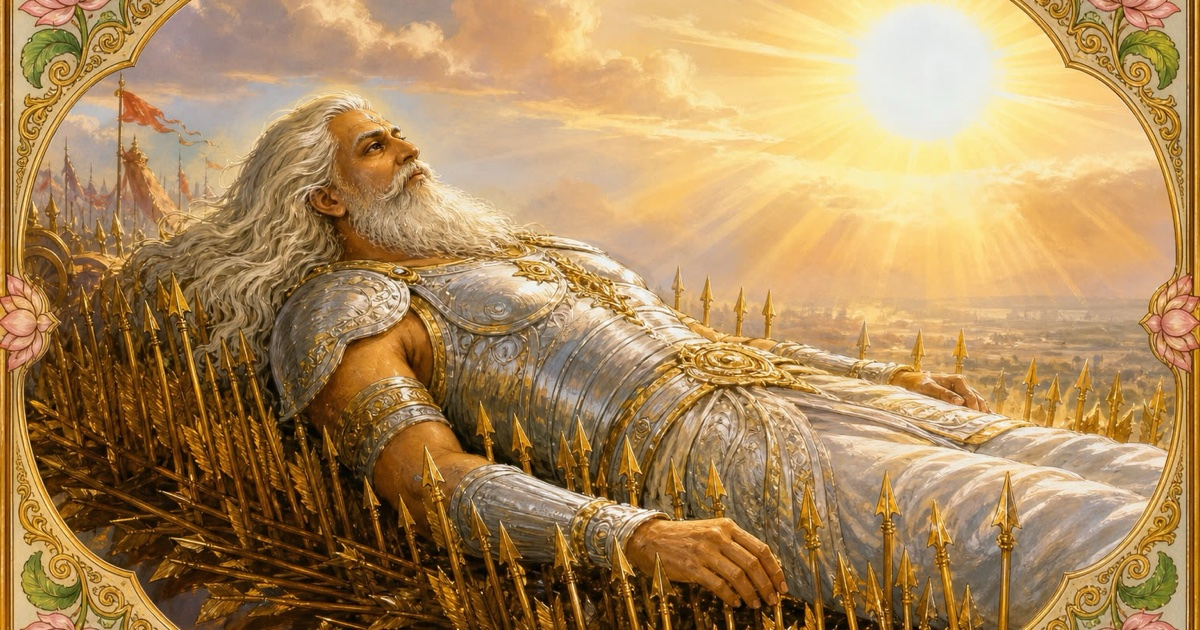
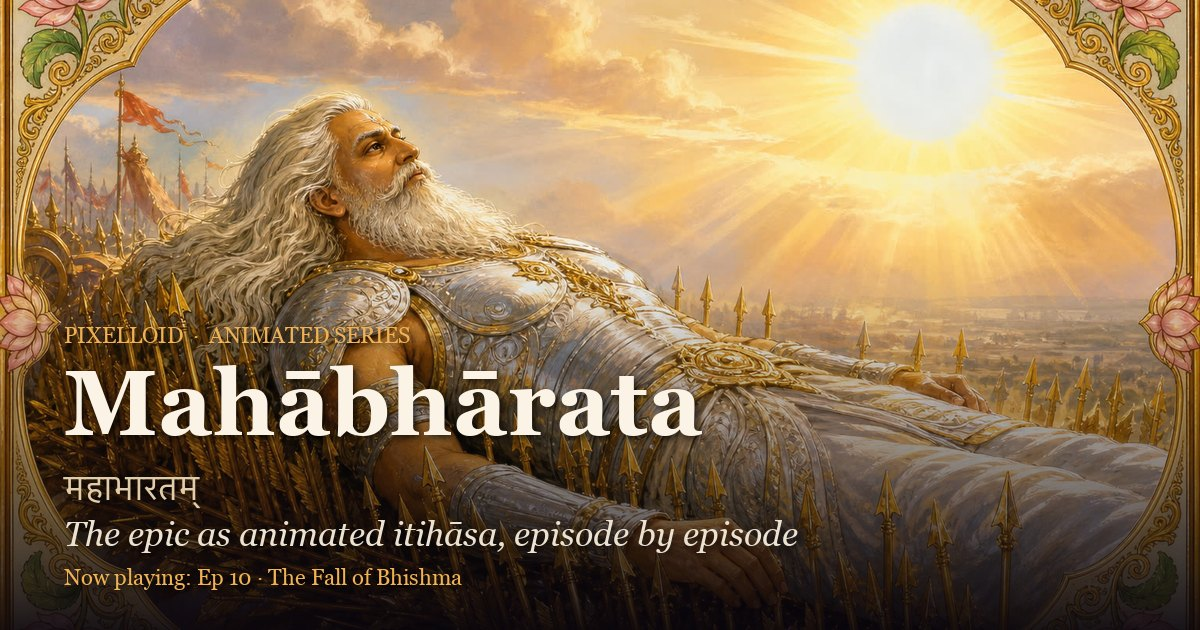
mahabharata: share preview with title/subtitle text on Ep10 image

diff --git a/mahabharata/index.html b/mahabharata/index.html
@@ -10,18 +10,18 @@
   <meta property="og:type" content="website" />
   <meta property="og:site_name" content="Pixelloid" />
   <meta property="og:title" content="Mahābhārata — animated itihāsa" />
-  <meta property="og:description" content="Episodic animated Mahābhārata in a Phad and Pattachitra painted style. Watch every episode free in your browser." />
+  <meta property="og:description" content="The epic as animated itihāsa, episode by episode. Now playing: Ep 10, The Fall of Bhishma. Watch free in your browser." />
   <meta property="og:url" content="https://avinashpeyyety.github.io/pixelloid/mahabharata/" />
-  <meta property="og:image" content="https://avinashpeyyety.github.io/pixelloid/mahabharata/og-image.jpg" />
-  <meta property="og:image:secure_url" content="https://avinashpeyyety.github.io/pixelloid/mahabharata/og-image.jpg" />
+  <meta property="og:image" content="https://avinashpeyyety.github.io/pixelloid/mahabharata/og-image.jpg?v=2" />
+  <meta property="og:image:secure_url" content="https://avinashpeyyety.github.io/pixelloid/mahabharata/og-image.jpg?v=2" />
   <meta property="og:image:type" content="image/jpeg" />
   <meta property="og:image:width" content="1200" />
   <meta property="og:image:height" content="630" />
   <meta property="og:image:alt" content="The Fall of Bhishma — the grandsire on the bed of arrows at Kurukshetra" />
   <meta name="twitter:card" content="summary_large_image" />
   <meta name="twitter:title" content="Mahābhārata — animated itihāsa" />
-  <meta name="twitter:description" content="Episodic animated Mahābhārata in a Phad and Pattachitra painted style. Watch every episode free in your browser." />
-  <meta name="twitter:image" content="https://avinashpeyyety.github.io/pixelloid/mahabharata/og-image.jpg" />
+  <meta name="twitter:description" content="The epic as animated itihāsa, episode by episode. Now playing: Ep 10, The Fall of Bhishma. Watch free in your browser." />
+  <meta name="twitter:image" content="https://avinashpeyyety.github.io/pixelloid/mahabharata/og-image.jpg?v=2" />
   <link rel="preconnect" href="https://fonts.googleapis.com" />
   <link rel="preconnect" href="https://fonts.gstatic.com" crossorigin />
   <link href="https://fonts.googleapis.com/css2?family=Cormorant+Garamond:ital,wght@0,500;0,600;1,500&family=DM+Sans:opsz,wght@9..40,400;9..40,600&family=JetBrains+Mono:wght@400;500&display=swap" rel="stylesheet" />
